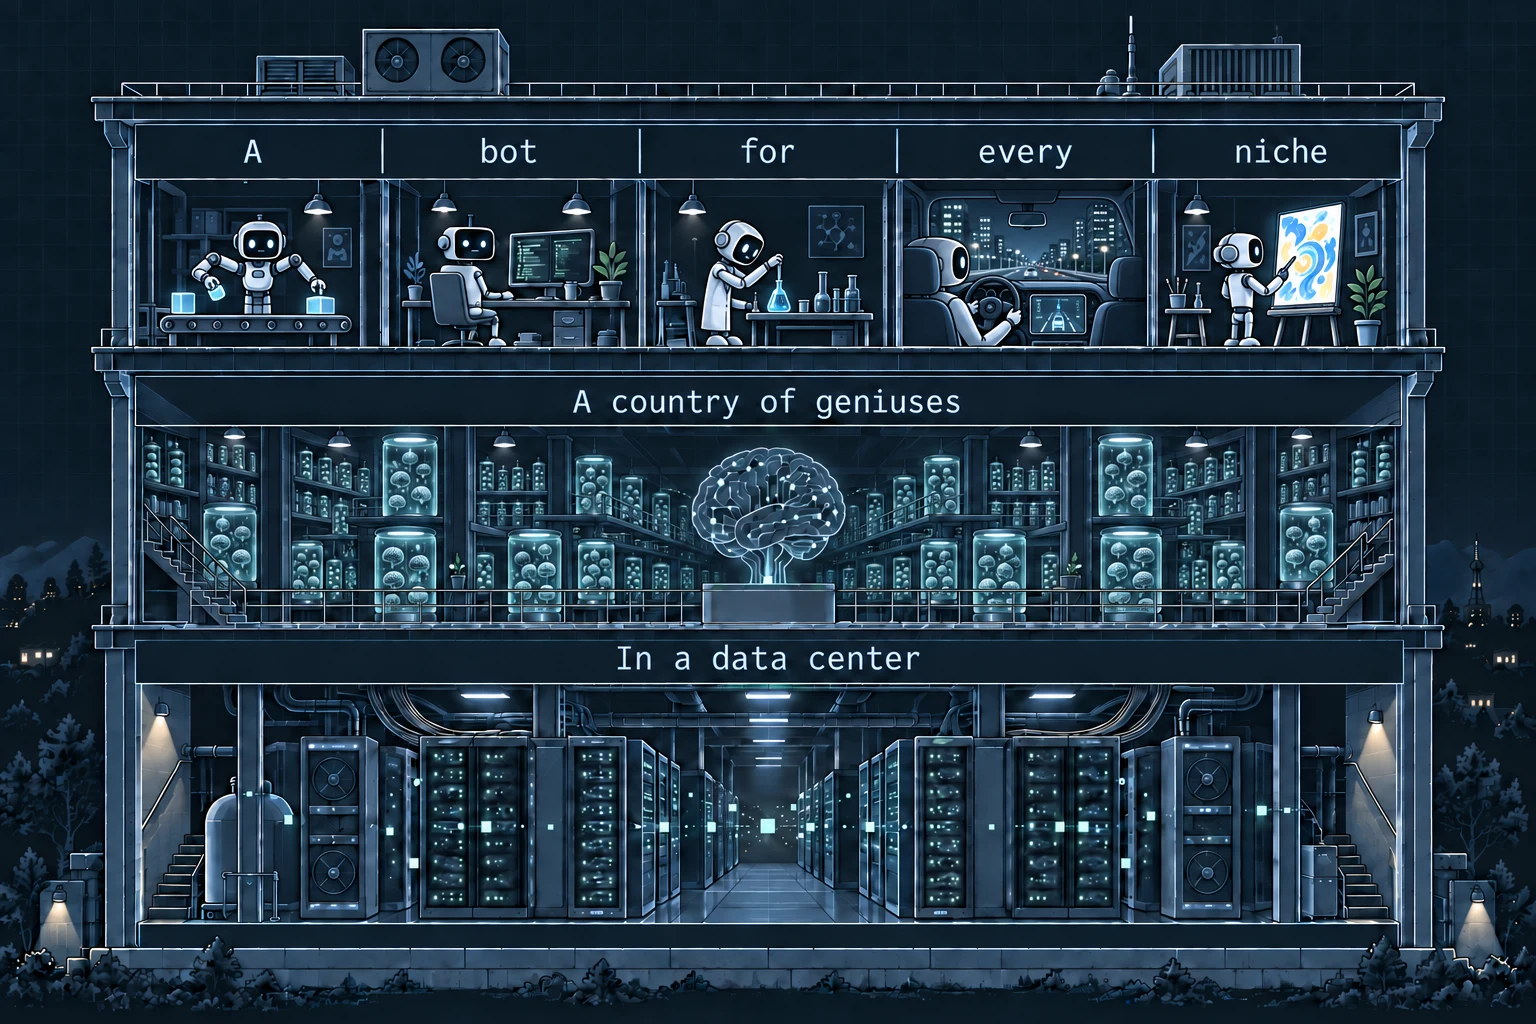
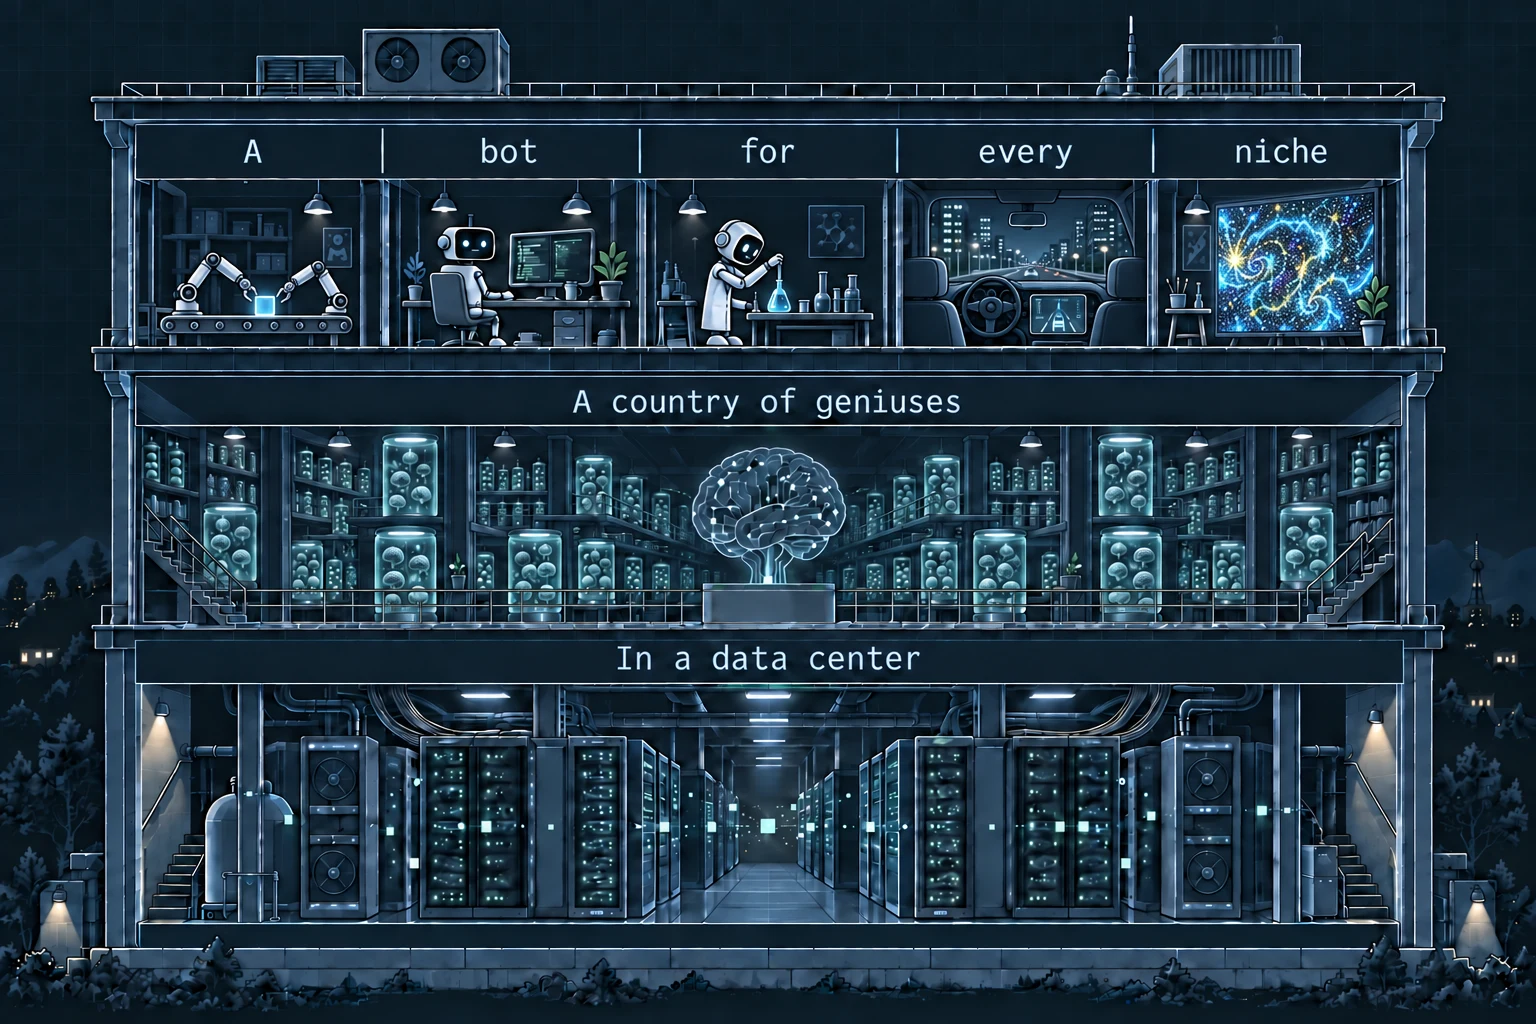
Make the day count readable, drop the series-note parentheses
The count-up already ran, but it was hard to catch: a 0.6 threshold fired the
moment the span clipped the bottom of the screen, and a cubic ease reached 250
of 258 inside 800ms, so it was usually over before the reader looked at it.

It now runs for 2.6s on a gentler curve, and waits until the line has cleared
the lower quarter of the viewport before starting.

diff --git a/public/posts/ai2026-pt1/intro/building-intro.js b/public/posts/ai2026-pt1/intro/building-intro.js
@@ -9,13 +9,27 @@ const brains=this.getAttribute('focus-floor')==='brains';
 const agents=this.getAttribute('focus-floor')==='agents';
 const continueTo=this.getAttribute('continue-to');
 if(continueTo?.startsWith('#'))root.querySelector('.skip').href=continueTo;
-const img=root.querySelector('img');const imageSource=this.getAttribute('image-src')||'/posts/ai2026-pt1/intro/building.webp';img.src=imageSource+(imageSource.includes('?')?'&':'?')+'v=brain-country-1';
+const img=root.querySelector('img');img.alt='A cutaway building with robots moving a block, coding, doing science, driving autonomously, and making art above a library of AI brains and a data center.';const imageSource=this.getAttribute('image-src')||'/posts/ai2026-pt1/intro/building.webp';img.src=imageSource+(imageSource.includes('?')?'&':'?')+'v=five-niches-2';
 // Use a purpose-composed portrait asset on phones, retaining the desktop illustration.
 const picture=document.createElement('picture'),source=document.createElement('source');
-source.media='(max-width: 760px)';source.srcset='/posts/ai2026-pt1/intro/building-mobile.jpg';
+source.media='(max-width: 760px)';source.srcset='/posts/ai2026-pt1/intro/building-mobile.jpg?v=five-niches-2';
 img.before(picture);picture.append(source,img);
 const mobileStyle=document.createElement('style');mobileStyle.textContent=`
-.camera picture{display:block;width:100%;height:100%}
+.camera{width:100%;height:100%;max-width:none;aspect-ratio:auto;overflow:hidden;will-change:width,height,top}
+.camera picture{display:block;width:100%;height:100%}.camera img{object-fit:cover}.camera svg{overflow:hidden}
+.controls{position:absolute;left:0;right:0;bottom:0;z-index:3;background:linear-gradient(transparent,#0b1015aa)}
+.workpiece{filter:drop-shadow(0 0 5px #8df5e2);animation:transfer-block 5s cubic-bezier(.65,0,.35,1) infinite}
+.factory-arm{fill:none;stroke:#bdeee8;stroke-width:2.2;stroke-linecap:round;stroke-linejoin:round;filter:drop-shadow(0 0 3px #72d8cf);animation:arm-work 5s ease-in-out infinite;transform-box:fill-box}
+.factory-arm.right{animation-delay:-2.5s}.reaction-bubble{fill:#b9fff0;filter:drop-shadow(0 0 3px #67e6d2);animation:reaction-rise 2.1s ease-out infinite;animation-delay:var(--delay)}
+.city-parallax{animation:city-pass 4.8s linear infinite}.road-dash{animation:road-pass 1.15s linear infinite}.dash-glow{fill:#b8fff0;filter:drop-shadow(0 0 4px #63e8d0);animation:dash-pulse 1.8s ease-in-out infinite}
+.art-line{fill:none;stroke-linecap:round;stroke-linejoin:round;stroke-dasharray:70;filter:drop-shadow(0 0 3px currentColor);animation:art-draw 4.5s ease-in-out infinite;animation-delay:var(--delay)}
+@keyframes transfer-block{0%,8%{transform:translateX(0)}38%,58%{transform:translateX(136px)}88%,100%{transform:translateX(0)}}
+@keyframes arm-work{0%,12%,48%,62%,100%{transform:rotate(0)}25%,35%{transform:rotate(-12deg)}}
+@keyframes reaction-rise{0%{opacity:0;transform:translateY(5px) scale(.6)}25%{opacity:.9}100%{opacity:0;transform:translateY(-21px) scale(1.2)}}
+@keyframes city-pass{from{transform:translateX(0)}to{transform:translateX(-48px)}}
+@keyframes road-pass{from{transform:translateY(-20px)}to{transform:translateY(28px)}}
+@keyframes dash-pulse{50%{opacity:.35}}
+@keyframes art-draw{0%{stroke-dashoffset:70;opacity:.1}42%,72%{stroke-dashoffset:0;opacity:1}100%{stroke-dashoffset:-70;opacity:.12}}
 @media(max-width:760px){
  .heading{display:none}.controls{position:absolute;bottom:8px;left:0;right:0;padding:6px;background:transparent;z-index:2}.skip{font-size:24px;text-shadow:0 2px 8px #000}
  .pin{min-height:0;height:calc(100svh - var(--intro-top))}.viewport{width:100%;height:100%;flex:1}.camera{width:100%;height:100%;aspect-ratio:auto}.camera img{object-fit:cover}.camera>svg{display:none}
@@ -25,6 +39,35 @@ const mobileStyle=document.createElement('style');mobileStyle.textContent=`
  :host([preview][data-floor=brains]) .camera:after{background:linear-gradient(to bottom,#070b1066 34%,#63ff9114 34%,#63ff9114 65%,#070b1066 65%)}
 }
 `;root.append(mobileStyle);
+// Remove the previous top-floor effects; their coordinates belonged to the old niches.
+root.querySelectorAll('.paint-brush,.paint-stroke,.water-stream,.splash,.music-note,.lab-frame,.lab-head').forEach(node=>node.remove());
+const heroSvg=root.querySelector('.camera>svg');
+heroSvg.insertAdjacentHTML('beforeend',`<defs>
+ <clipPath id="car-windshield"><path d="M923 199H1143V276H923Z"/></clipPath>
+ <clipPath id="art-canvas"><path d="M1271 210L1348 216L1344 310L1268 302Z"/></clipPath>
+</defs>
+<g aria-hidden="true">
+ <g class="factory-motion">
+  <path class="factory-arm" d="M207 279L225 293L239 301"/><circle cx="207" cy="279" r="3.2" fill="#bdeee8"/>
+  <path class="factory-arm right" d="M306 278L291 293L278 302"/><circle cx="306" cy="278" r="3.2" fill="#bdeee8"/>
+  <g class="workpiece"><rect x="179" y="295" width="16" height="16" rx="2" fill="#aaf8ee" opacity=".82"/><path d="M181 298h12v10h-12z" fill="#4fa9bd" opacity=".58"/></g>
+ </g>
+ <g class="science-motion">
+  <circle class="reaction-bubble" style="--delay:0s" cx="780" cy="289" r="2.8"/>
+  <circle class="reaction-bubble" style="--delay:-.7s" cx="790" cy="293" r="2"/>
+  <circle class="reaction-bubble" style="--delay:-1.4s" cx="774" cy="296" r="1.7"/>
+ </g>
+ <g clip-path="url(#car-windshield)" fill="none" stroke="#8dd9e9" stroke-width="1.3" opacity=".68">
+  <g class="city-parallax"><path d="M930 251v-25h12v25m6 0v-39h15v39m8 0v-30h12v30m9 0v-45h17v45m8 0v-28h12v28m10 0v-36h16v36m8 0v-24h12v24m7 0v-42h14v42m8 0v-31h16v31"/><path d="M1140 251v-28h12v28m7 0v-39h15v39m8 0v-24h12v24"/></g>
+  <g class="road-dash" stroke="#b7fff1" stroke-width="2"><path d="M1025 237l-4 14m20-14 4 14M1017 261l-6 20m42-20 6 20"/></g>
+ </g>
+ <rect class="dash-glow" x="1024" y="283" width="39" height="2.5" rx="1.2"/>
+ <g clip-path="url(#art-canvas)" stroke-width="4">
+  <path class="art-line" style="--delay:0s;color:#73e8ff" stroke="currentColor" d="M1277 275q15-31 30-5t31-29"/>
+  <path class="art-line" style="--delay:-1.5s;color:#ffe38a" stroke="currentColor" d="M1281 289q18-16 29 2t29-10"/>
+  <path class="art-line" style="--delay:-3s;color:#aaffd7" stroke="currentColor" d="M1285 244q12 19 25 0t27 7"/>
+ </g>
+</g>`);
 const camera=root.querySelector('.camera'),section=root.querySelector('.section');
 const reduce=matchMedia('(prefers-reduced-motion: reduce)');
 let raf=0;
@@ -33,7 +76,7 @@ const r=section.getBoundingClientRect(),top=parseFloat(getComputedStyle(this).ge
 const p=Math.min(1,Math.max(0,(top-r.top)/Math.max(1,r.height-innerHeight+top)));
 const q=Math.min(1,Math.max(0,(p-.2)/.72)),e=q*q*(3-2*q);
 const viewport=root.querySelector('.viewport');
-const baseWidth=innerWidth<=760?viewport.clientWidth:Math.min(viewport.clientWidth,Math.max(200,innerHeight-200)*1.5);
+const baseWidth=innerWidth<=760?viewport.clientWidth:Math.max(viewport.clientWidth,viewport.clientHeight*1.5);
 const baseHeight=baseWidth/1.5;
 // Portrait starts full-screen, then zooms into the selected floor.
 if(innerWidth<=760){
@@ -43,9 +86,9 @@ camera.style.width=`${viewport.clientWidth*scale}px`;
 camera.style.height=`${height}px`;
 camera.style.top=`${height*(.5-center)}px`;
 }else{
-camera.style.height='';
 const scale=1+1.2*e;
 camera.style.width=`${baseWidth*scale}px`;
+camera.style.height=`${baseHeight*scale}px`;
 camera.style.top=`${agents?baseHeight*.56*e:-baseHeight*(brains?.04*e:.3*(scale-1)+.29*e)}px`;
 }
 };

diff --git a/public/posts/ai2026-pt1/index.html b/public/posts/ai2026-pt1/index.html
@@ -1,12 +1,12 @@
 <!doctype html>
-<html lang="en"><head><meta charset="utf-8"><meta name="viewport" content="width=device-width,initial-scale=1"><title>AI 2026 · Part 1, Chips — Rhys Lindmark</title><meta name="description" content="Data centers, chips, revenue and margins."><meta name="robots" content="noindex"><link rel="canonical" href="https://www.rhyslindmark.com/posts/ai2026-pt1/"><link rel="stylesheet" href="/posts/ai2026-pt1/style.css"><script src="/posts/ai2026-pt1/chart.js" defer></script><script src="/posts/ai2026-pt1/intro/building-intro.js" defer></script><script src="/posts/ai2026-pt1/jalapeno.js" defer></script><script src="/posts/ai2026-pt1/china-gap.js" defer></script><script async src="https://platform.twitter.com/widgets.js" charset="utf-8"></script><script src="/posts/ai2026-pt1/network-demos.js" defer></script><script src="/posts/ai2026-pt1/share-charts.js" defer></script><script src="/posts/ai2026-pt1/lede.js" defer></script></head><body>
+<html lang="en"><head><meta charset="utf-8"><meta name="viewport" content="width=device-width,initial-scale=1"><title>AI 2026 · Part 1, Chips — Rhys Lindmark</title><meta name="description" content="Data centers, chips, revenue and margins."><meta name="robots" content="noindex"><link rel="canonical" href="https://www.rhyslindmark.com/posts/ai2026-pt1/"><link rel="stylesheet" href="/posts/ai2026-pt1/style.css"><script src="/posts/ai2026-pt1/chart.js" defer></script><script src="/posts/ai2026-pt1/intro/building-intro.js?v=full-screen-niches-1" defer></script><script src="/posts/ai2026-pt1/jalapeno.js" defer></script><script src="/posts/ai2026-pt1/china-gap.js" defer></script><script async src="https://platform.twitter.com/widgets.js" charset="utf-8"></script><script src="/posts/ai2026-pt1/network-demos.js" defer></script><script src="/posts/ai2026-pt1/share-charts.js" defer></script><script src="/posts/ai2026-pt1/lede.js" defer></script></head><body>
 <a class="skip" href="#sources">Skip to sources &amp; data</a>
 <header><a class="brand" href="/">Rhys</a></header>
 <main id="article">
 <ai-building-intro image-src="/posts/ai2026-pt1/intro/building.webp"></ai-building-intro>
 <section class="lede" id="lede" data-passage="0">
 <div class="lede-inner">
-<p class="lede-note">(This is Part I in a three-part series looking at Chips, Models, and Agents.)</p>
+<p class="lede-note">This is Part I in a three-part series looking at Chips, Models, and Agents.</p>
 <p class="lede-day">Today is Day <span class="day-count" data-day-count>1</span> of the singularity.</p>
 <p>What company is powering it? <strong>Nvidia.</strong></p>
 <p class="lede-chant">Nvidia, who shakes the Earth.</p>

diff --git a/public/posts/ai2026-pt1/lede.js b/public/posts/ai2026-pt1/lede.js
@@ -5,21 +5,23 @@ const now=new Date(),year=now.getFullYear();
 const days=Math.max(1,Math.round((new Date(year,now.getMonth(),now.getDate())-new Date(year,0,1))/864e5));
 el.textContent='1';
 const reduce=matchMedia('(prefers-reduced-motion: reduce)');
-const settle=()=>{el.textContent=String(days);};
-if(reduce.matches){settle();return;}
+if(reduce.matches){el.textContent=String(days);return;}
 let started=false;
 const run=()=>{
- const t0=performance.now(),dur=1800;
+ // Long enough, and eased gently enough, that the digits are legible the whole way up.
+ const t0=performance.now(),dur=2600;
  const tick=t=>{
-  const k=Math.min(1,(t-t0)/dur),e=1-Math.pow(1-k,3);
+  const k=Math.min(1,(t-t0)/dur),e=1-Math.pow(1-k,2.2);
   el.textContent=String(Math.max(1,Math.round(e*days)));
   if(k<1)requestAnimationFrame(tick);
  };
  requestAnimationFrame(tick);
 };
+// Wait until the line has cleared the lower quarter of the screen, so the count
+// does not finish off-screen before the reader's eye arrives.
 const io=new IntersectionObserver(entries=>{
  if(!entries[0].isIntersecting||started)return;
  started=true;io.disconnect();run();
-},{threshold:.6});
+},{threshold:1,rootMargin:'0px 0px -25% 0px'});
 io.observe(el);
 })();
